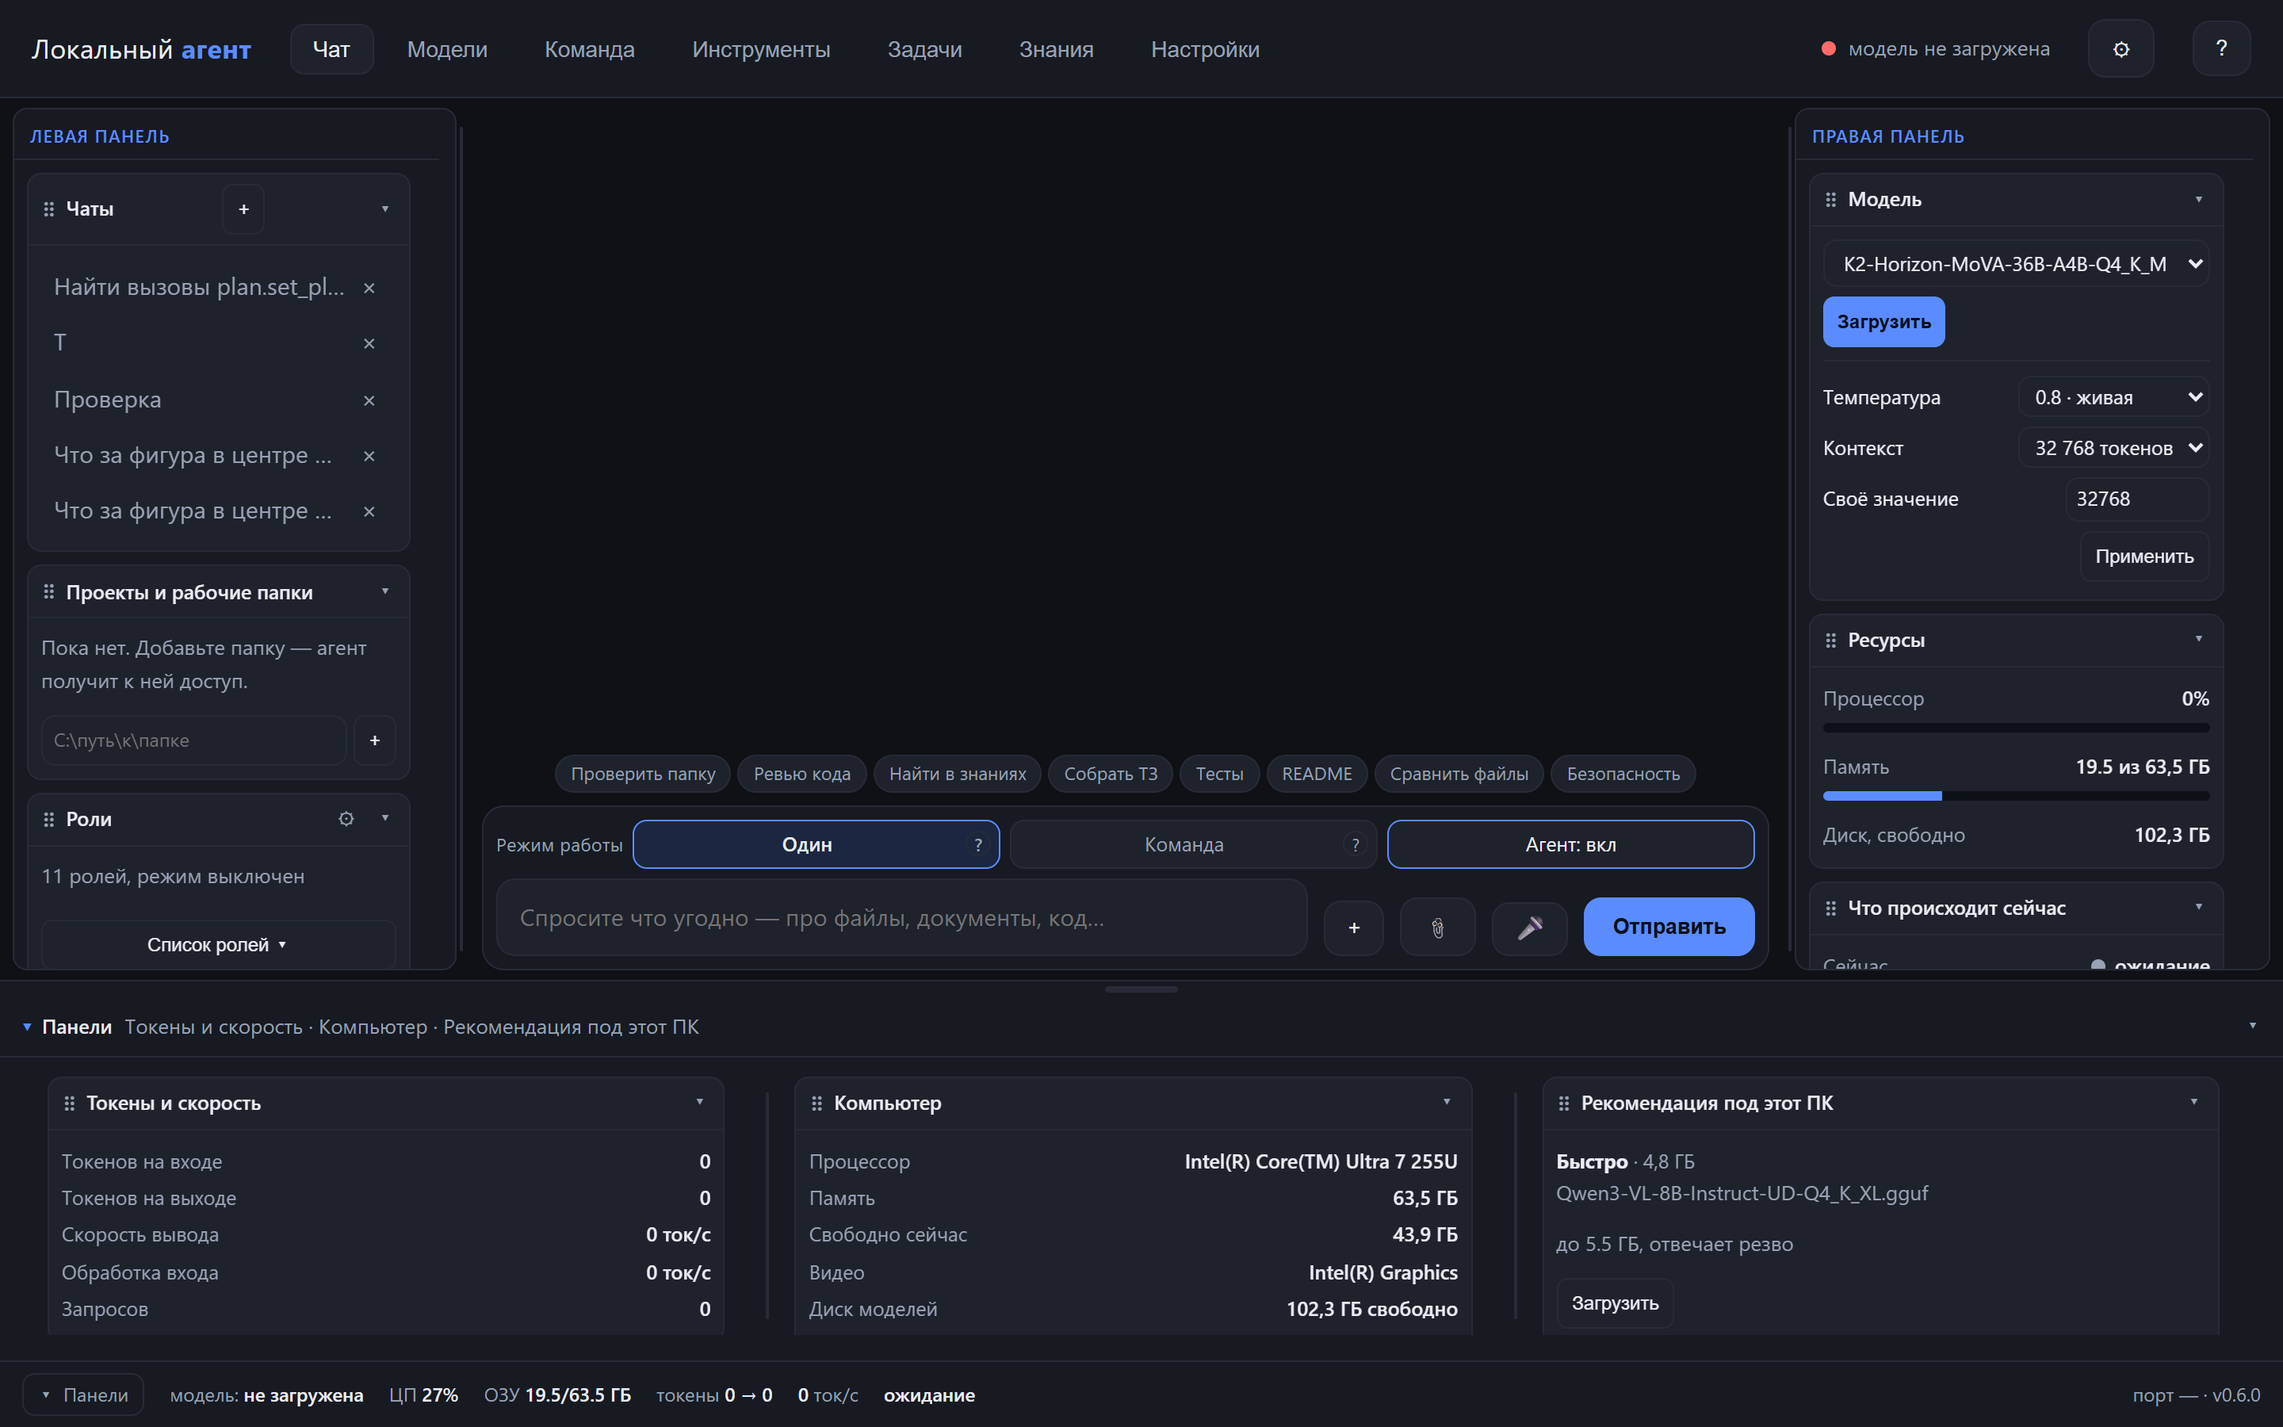
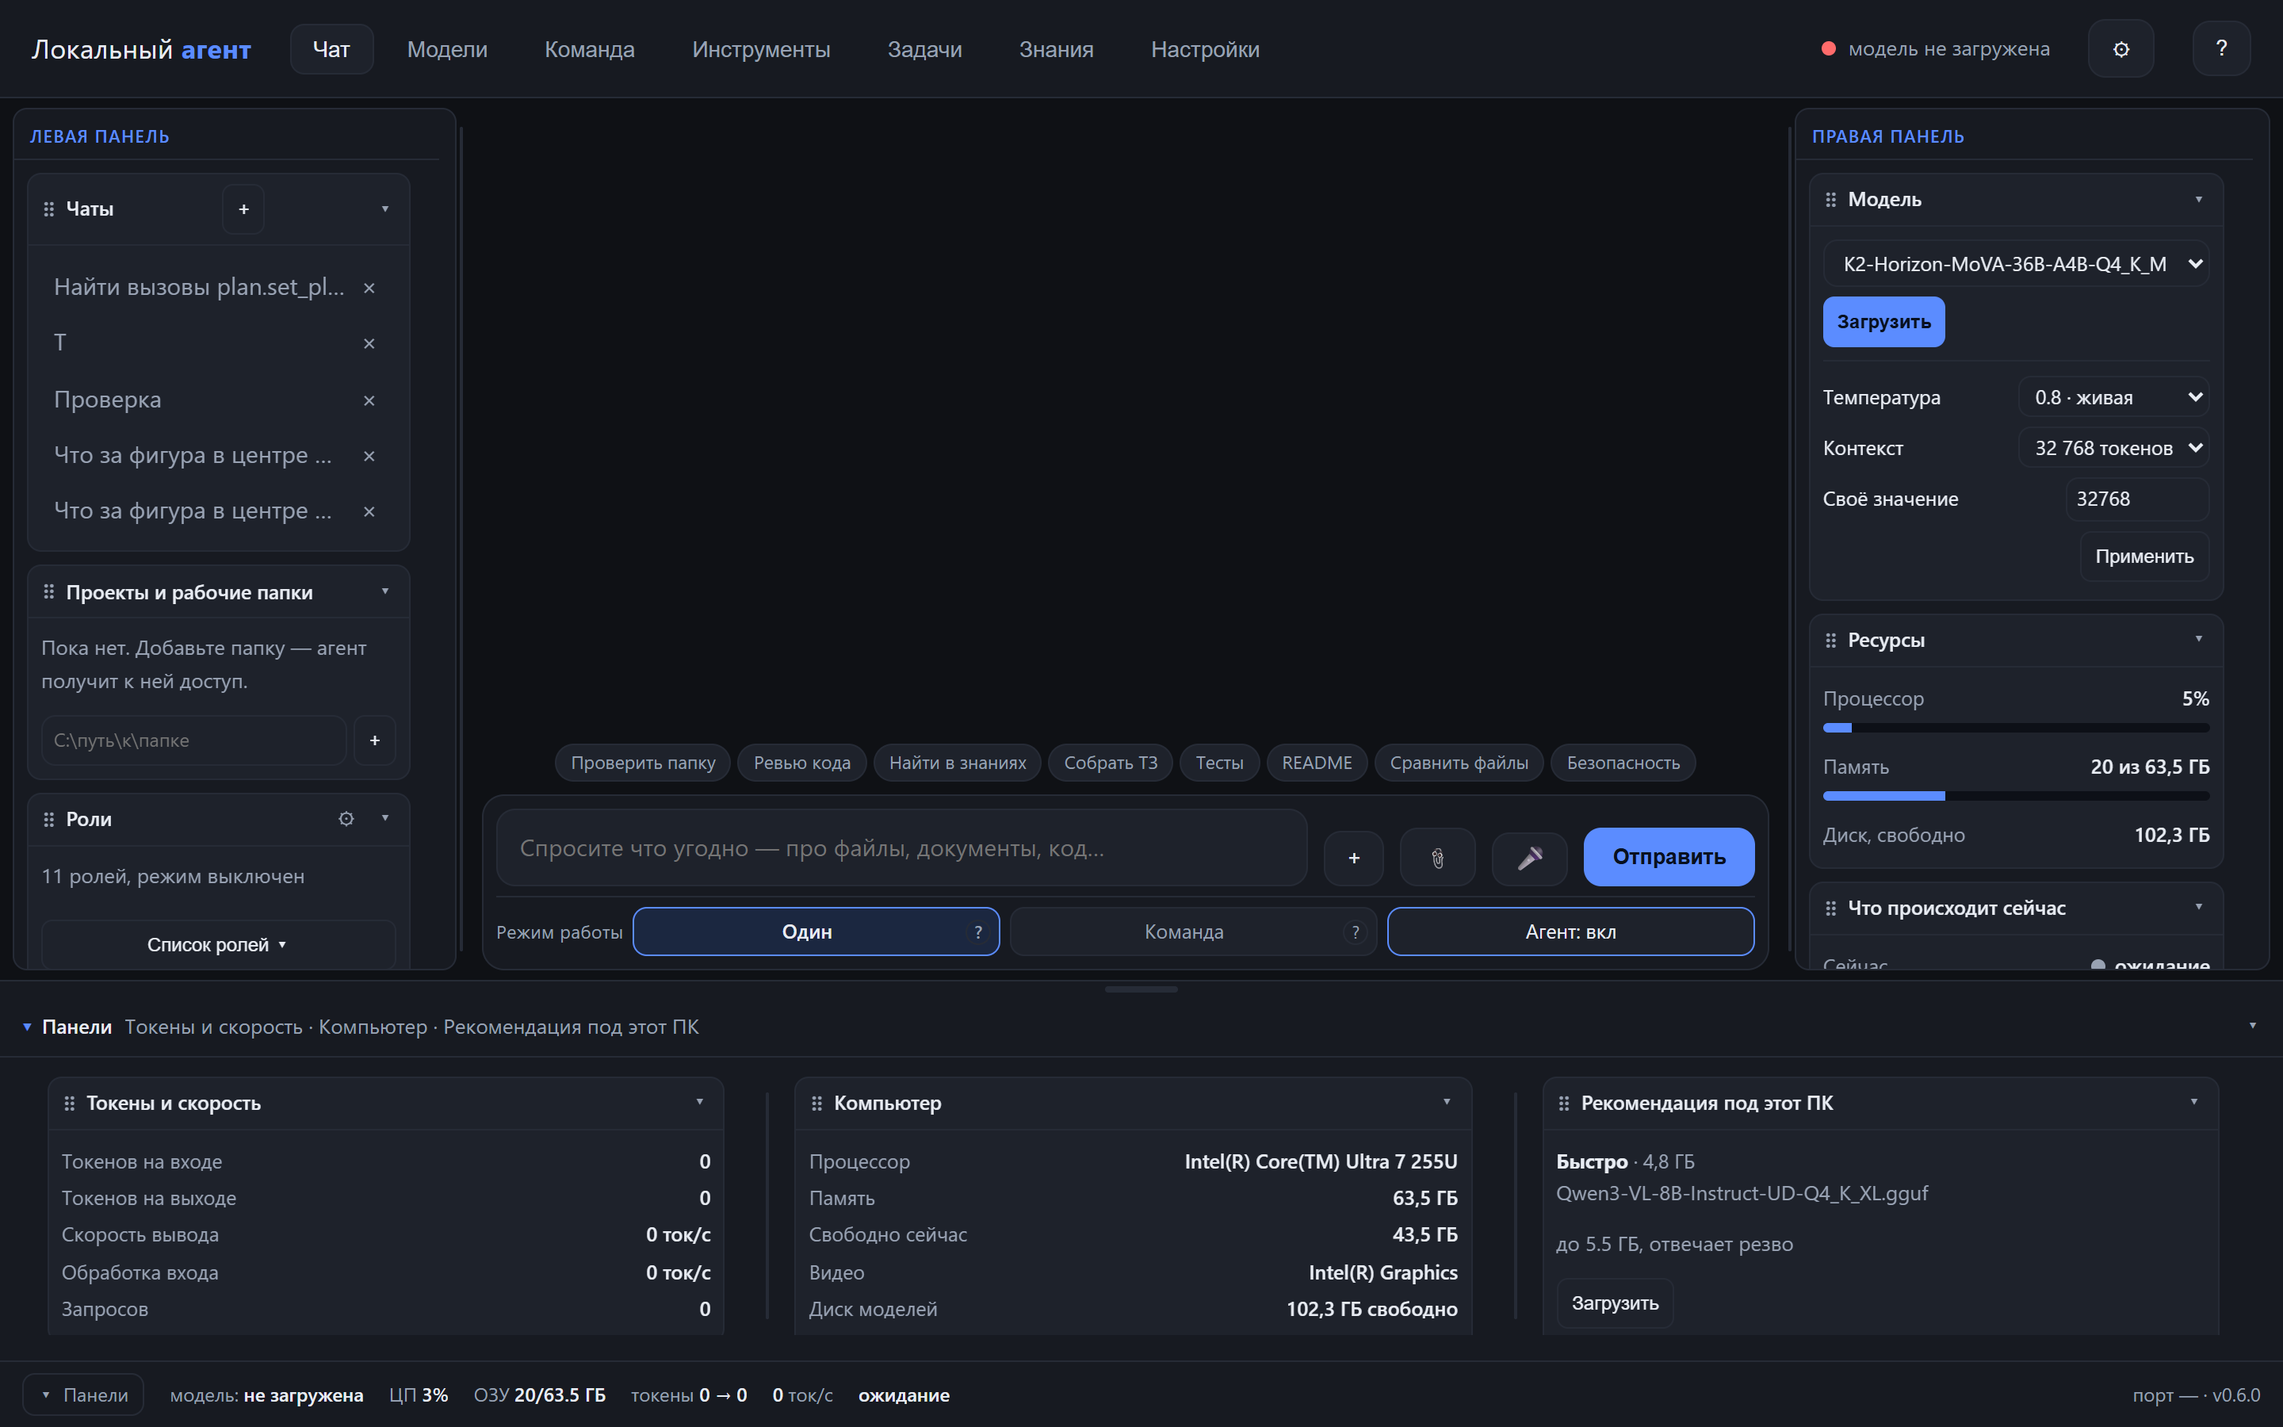
Карточка ввода: поле с кнопками сверху, режимы работы под ним

diff --git a/app/ui/index.html b/app/ui/index.html
@@ -67,12 +67,6 @@
  <div class="attachBar" id="attachBar"></div>
  <div class="dropHint" id="dropHint">Перетащите файл сюда: PDF, DOCX, XLSX, CSV, текст</div>
  <div class="composerCard">
- <div class="modes">
-  <span class="modesLabel" title="Кто отвечает на вопрос и чем пользуется">Режим работы</span>
-  <button class="mode active" data-mode="agent" title="Один помощник — на вопрос отвечает одна модель">Один<span class="help" data-tip="Обычный режим: на ваш вопрос отвечает одна модель. Быстро и просто — для повседневных задач.">?</span></button>
-  <button class="mode" data-mode="team" title="Команда специалистов — задачу разбирают несколько ролей по очереди">Команда<span class="help" data-tip="Сложную задачу по очереди разбирают несколько ролей: аналитик, разработчик, ревьюер и другие. Дольше, но глубже.">?</span></button>
-  <button class="agentMode" id="agentModeBtn" title="Режим агента: модель может читать файлы, искать по проекту, запускать проверки и вести план">Агент: вкл</button>
- </div>
  <div id="composer" class="composer">
  <textarea id="input" rows="1" placeholder="Спросите что угодно — про файлы, документы, код…"></textarea>
  <button id="newChatBtn" class="ghost" title="Новый чат">+</button>
@@ -82,6 +76,13 @@
  <button id="micBtn" class="ghost" title="Голос: Ctrl+Alt+Space">🎤</button>
  <button id="send" class="primary" title="Отправить">Отправить</button>
  </div>
+ <div class="modes">
+  <span class="modesLabel" title="Кто отвечает на вопрос и чем пользуется">Режим работы</span>
+  <button class="mode active" data-mode="agent" title="Один помощник — на вопрос отвечает одна модель">Один<span class="help" data-tip="Обычный режим: на ваш вопрос отвечает одна модель. Быстро и просто — для повседневных задач.">?</span></button>
+  <button class="mode" data-mode="team" title="Команда специалистов — задачу разбирают несколько ролей по очереди">Команда<span class="help" data-tip="Сложную задачу по очереди разбирают несколько ролей: аналитик, разработчик, ревьюер и другие. Дольше, но глубже.">?</span></button>
+  <button class="agentMode" id="agentModeBtn" title="Режим агента: модель может читать файлы, искать по проекту, запускать проверки и вести план">Агент: вкл</button>
+ </div>
+ 
  </div>
    </div>
    <div class="colResizer railResizer" data-resize="right" title="Правая панель"></div>

diff --git a/app/ui/style.css b/app/ui/style.css
@@ -302,6 +302,7 @@ table.roles select, table.roles input[type=text] { width: 100%; }
 }
 .composerCard { border: 1px solid var(--line); border-radius: 14px; background: var(--panel); padding: 6px 8px 8px; display: flex; flex-direction: column; gap: 4px; }
 .composerCard .composer { border-top: 0; padding-top: 2px; }
+.composerCard .modes { border-top: 1px solid var(--line); padding-top: 6px; margin-top: 2px; }
 .modes { display: grid; grid-template-columns: auto 1fr 1fr 1fr; gap: 6px; padding: 0; align-items: center; }
 .modesLabel { font-size: 11.5px; color: var(--muted); white-space: nowrap; letter-spacing: .2px; }
 .modes .mode { min-width: 0; justify-content: center; padding: 5px 8px; font-size: 12.5px; border-radius: 9px; }

diff --git a/tests/check_layout.py b/tests/check_layout.py
@@ -55,11 +55,14 @@ check("слой подсказок", 'id="tipLayer"' in html and ".tipLayer" in 
 check("подсказки ролей в коде", "function wireRolesBlock()" in app and "showRoleTip" in app)
 check("список ролей рисуется", "function renderRolesMenu()" in app)
 
-center_html = html.split('id="composer"')[0].split('<div id="messages"')[1] if '<div id="messages"' in html else ''
+center_html = html.split('class="chatCenter"')[1].split('railRight')[0] if 'class="chatCenter"' in html else ''
 model_block = html.split('data-block="model"')[1].split('data-block="resources"')[0]
 check("режимы в центре чата", 'class="modes"' in center_html)
 check("короткие подписи режимов", ">Один<span" in html and ">Команда<span" in html)
-check("режимы внутри карточки ввода", 'class="composerCard"' in html and html.index('class="modes"') < html.index('id="composer"'))
+check("режимы внутри карточки ввода", 'class="composerCard"' in html and
+      html.index('id="composer"') < html.index('class="modes"'))
+check("ввод выше режимов", html.index('id="composer"') < html.index('class="modes"'))
+check("разделитель над режимами", ".composerCard .modes { border-top: 1px solid var(--line)" in css)
 check("подпись «Режим работы»", "Режим работы" in html)
 check("примеров не меньше восьми", html.count('data-template=') >= 8, "найдено %d" % html.count('data-template='))
 check("примеры по центру", "justify-content: center" in css and ".templates {" in css)

diff --git a/MEMORY.md b/MEMORY.md
@@ -192,7 +192,7 @@
 - **Генератор описания роли — `POST /api/roles/suggest`.** Один нестриминговый вызов через `_model_once` (system + «Роль: …», 420 токенов): русский текст на ~45 слов. Без загруженной модели отвечает понятной ошибкой «модель не загружена».
 
 ---
-- **Режимы «Один / Команда / Агент» живут в карточке ввода.** `.composerCard` обнимает строку `.modes` (подпись «Режим работы» + три колонки `grid-template-columns: auto 1fr 1fr 1fr`) и `#composer`; на 1440 px кнопки по 232 px, на 1000 px — по 201 px без обрезки. Подпись «?» вынесена `position:absolute` к правому краю, иначе сдвигала текст.
+- **Режимы «Один / Команда / Агент» — под полем ввода, в той же карточке.** `.composerCard`: сначала `#composer` с кнопками, под разделителем — `.modes` (подпись «Режим работы» + три колонки `grid-template-columns: auto 1fr 1fr 1fr`); на 1440 px кнопки по 232 px, на 1000 px — по 201 px без обрезки. Подпись «?» вынесена `position:absolute` к правому краю, иначе сдвигала текст.
 - **Примеры задач — 8 чипов по центру.** `justify-content:center` у `.templates`; на 1000 px переносятся в две строки (54 px). Тексты лежат в `TEMPLATES` в `app.js`.
 - **`.modelAddr[hidden]` не скрывался**: у класса было `display:flex`, который перебивал атрибут `hidden`. Добавлено правило `.modelAddr[hidden]{display:none}`.
 
@@ -313,6 +313,10 @@
 - Исправлены P2: палки в кириллице (16), автоподбор папок моделей, шум в логе `vec_kind`, мёртвый код и мусор в `app/`.
 - Компоновка: шапка 62 px, ширина вкладок 1440 (чат 1100), шторка 240 px с ручкой, кнопки не меньше 32 px, удалены `.chatBar`, `.shell/.side`, `toggleSide`.
 - Проверено: 6 смоук-тестов, `check_contrast`, перезагрузка с сохранёнными темой/скином/шрифтом, кнопки задач и Telegram, bind 0.0.0.0 при `lan_access`.
+
+**2026-11-22 — порядок в карточке ввода: сначала поле, под ним режимы**
+- Поле ввода с кнопками (+ / 📎 / 🎤 / Отправить) сверху, под тонким разделителем — «Режим работы» с тремя равными кнопками; карточка 112 px, сообщения 399 px.
+- Тест `check_layout` сверяет порядок (`id="composer"` раньше `class="modes"`), наличие разделителя и область чата целиком.
 
 **2026-11-22 — режимы в карточке ввода, примеры по центру**
 - `Один`, `Команда`, `Агент` перенесены внутрь карточки ввода под подпись «Режим работы»; три равные колонки, «?» у правого края.

diff --git a/README.md b/README.md
@@ -112,7 +112,7 @@ API: `GET /api/skills`, `POST /api/skills/seed`, `POST /api/skills/save`, `POST 
 
 ## Режим работы и примеры задач
 
-Строка **«Режим работы»** стоит внутри карточки ввода: **Один** — отвечает одна модель, **Команда** — задачу разбирают несколько ролей, **Агент** — включает инструменты (файлы, поиск, проверки, план). Кнопки одинаковой ширины, состояние «Агент» подсвечено, когда он включён.
+Строка **«Режим работы»** стоит под полем ввода, в той же карточке (сначала поле с кнопками, ниже — режимы): **Один** — отвечает одна модель, **Команда** — задачу разбирают несколько ролей, **Агент** — включает инструменты (файлы, поиск, проверки, план). Кнопки одинаковой ширины, состояние «Агент» подсвечено, когда он включён.
 
 Над карточкой — восемь готовых формулировок по центру: проверить папку, ревью кода, найти в знаниях, собрать ТЗ, тесты, README, сравнить файлы, безопасность. Клик подставляет текст в поле ввода, его можно поправить.
 
